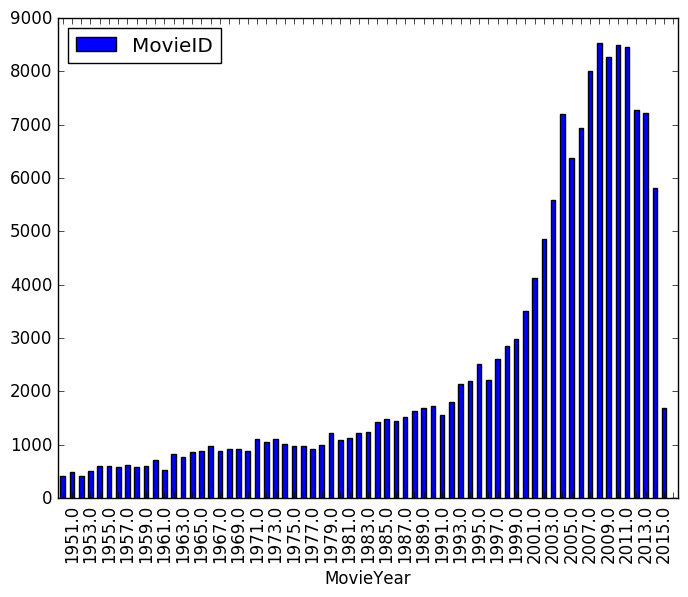
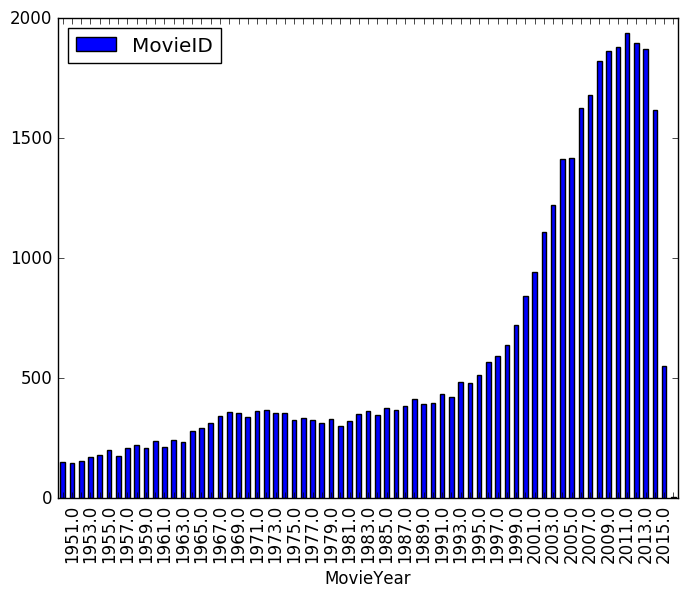
Corregido un problema con los gráficos previos

diff --git a/data_investigation.py b/data_investigation.py
@@ -8,22 +8,24 @@ datasets_path = "/Users/vale/Facultad/Tesis/data/datasets/"
 with open(datasets_path + "detalles_subtitulos.p", 'rb') as f:
   subtitles_index = pickle.load(f, encoding='latin-1')
 
-# print("Cantidad de películas diferentes: ", len(pd.value_counts(subtitles_index['MovieID'])))
+subtitles_index = subtitles_index.drop_duplicates(subset='MovieID')
 
-# gr = subtitles_index[['MovieID','MovieYear']].groupby('MovieYear')
-# chart = gr.count().plot(kind='bar')
-# chart.xaxis.set_ticklabels(chart.xaxis.get_ticklabels(), rotation=45)
-# for i, label in enumerate(chart.xaxis.get_ticklabels()):
-#   if not i % 4 == 0:
-#     label.set_visible(False)
-# mpl.savefig('investigation_charts/movies_by_year.png', bbox_inches='tight')
+print("Cantidad de películas diferentes: ", len(pd.value_counts(subtitles_index['MovieID'])))
+
+gr = subtitles_index[['MovieID','MovieYear']].groupby('MovieYear')
+chart = gr.count().plot(kind='bar')
+chart.xaxis.set_ticklabels(chart.xaxis.get_ticklabels(), rotation=45)
+for i, label in enumerate(chart.xaxis.get_ticklabels()):
+  if not i % 4 == 0:
+    label.set_visible(False)
+mpl.savefig('investigation_charts/movies_by_year.png', bbox_inches='tight')
 
 
-# gr = subtitles_index[subtitles_index.MovieYear >= 1950][['MovieID','MovieYear']].groupby('MovieYear')
-# chart = gr.count().plot(kind='bar')
-# for label in chart.xaxis.get_ticklabels()[::2]:
-#   label.set_visible(False)
-# mpl.savefig('investigation_charts/movies_by_year_over_50s.png', bbox_inches='tight')
+gr = subtitles_index[subtitles_index.MovieYear >= 1950][['MovieID','MovieYear']].groupby('MovieYear')
+chart = gr.count().plot(kind='bar')
+for label in chart.xaxis.get_ticklabels()[::2]:
+  label.set_visible(False)
+mpl.savefig('investigation_charts/movies_by_year_over_50s.png', bbox_inches='tight')
 
 
 gr = subtitles_index[subtitles_index.Type == 'movie'][subtitles_index.MovieYear >= 1950][['MovieID','MovieYear']].groupby('MovieYear')
@@ -33,17 +35,17 @@ for label in chart.xaxis.get_ticklabels()[::2]:
 mpl.savefig('investigation_charts/filtered_movies_by_year.png', bbox_inches='tight')
 
 
-# gr = subtitles_index[['MovieID','SubLanguageID']].groupby('SubLanguageID')
-# chart = gr.count().plot(kind='bar')
-# mpl.savefig('investigation_charts/movies_by_sublang.png', bbox_inches='tight')
+gr = subtitles_index[['MovieID','SubLanguageID']].groupby('SubLanguageID')
+chart = gr.count().plot(kind='bar')
+mpl.savefig('investigation_charts/movies_by_sublang.png', bbox_inches='tight')
 
 
-# gr = subtitles_index[['MovieID','SubFormat']].groupby('SubFormat')
-# chart = gr.count().plot(kind='bar')
-# mpl.savefig('investigation_charts/movies_by_format.png', bbox_inches='tight')
+gr = subtitles_index[['MovieID','SubFormat']].groupby('SubFormat')
+chart = gr.count().plot(kind='bar')
+mpl.savefig('investigation_charts/movies_by_format.png', bbox_inches='tight')
 
 
-# # No es pertinente, es todos los lenguajes en los que hay diálogo en la película
+# No es pertinente, es todos los lenguajes en los que hay diálogo en la película
 # gr = subtitles_index[['MovieID','Language']].groupby('Language')
 # chart = gr.count().plot(kind='bar')
 # mpl.savefig('investigation_charts/movies_by_lang.png', bbox_inches='tight')
@@ -54,13 +56,13 @@ mpl.savefig('investigation_charts/filtered_movies_by_year.png', bbox_inches='tig
 # mpl.savefig('investigation_charts/movies_from_usa.png', bbox_inches='tight')
 
 
-# gr = subtitles_index[['MovieID','Type']].groupby('Type')
-# chart = gr.count().plot(kind='bar')
-# mpl.savefig('investigation_charts/movies_by_type.png', bbox_inches='tight')
+gr = subtitles_index[['MovieID','Type']].groupby('Type')
+chart = gr.count().plot(kind='bar')
+mpl.savefig('investigation_charts/movies_by_type.png', bbox_inches='tight')
 
-# # Este lo hice por diversión
-# gr = subtitles_index[['MovieID','imdbRating']].groupby('imdbRating')
-# chart = gr.count().plot(kind='bar')
-# for label in chart.xaxis.get_ticklabels()[::2]:
-#   label.set_visible(False)
-# mpl.savefig('investigation_charts/movies_by_rating.png', bbox_inches='tight')
+# Este lo hice por diversión
+gr = subtitles_index[['MovieID','imdbRating']].groupby('imdbRating')
+chart = gr.count().plot(kind='bar')
+for label in chart.xaxis.get_ticklabels()[::2]:
+  label.set_visible(False)
+mpl.savefig('investigation_charts/movies_by_rating.png', bbox_inches='tight')
